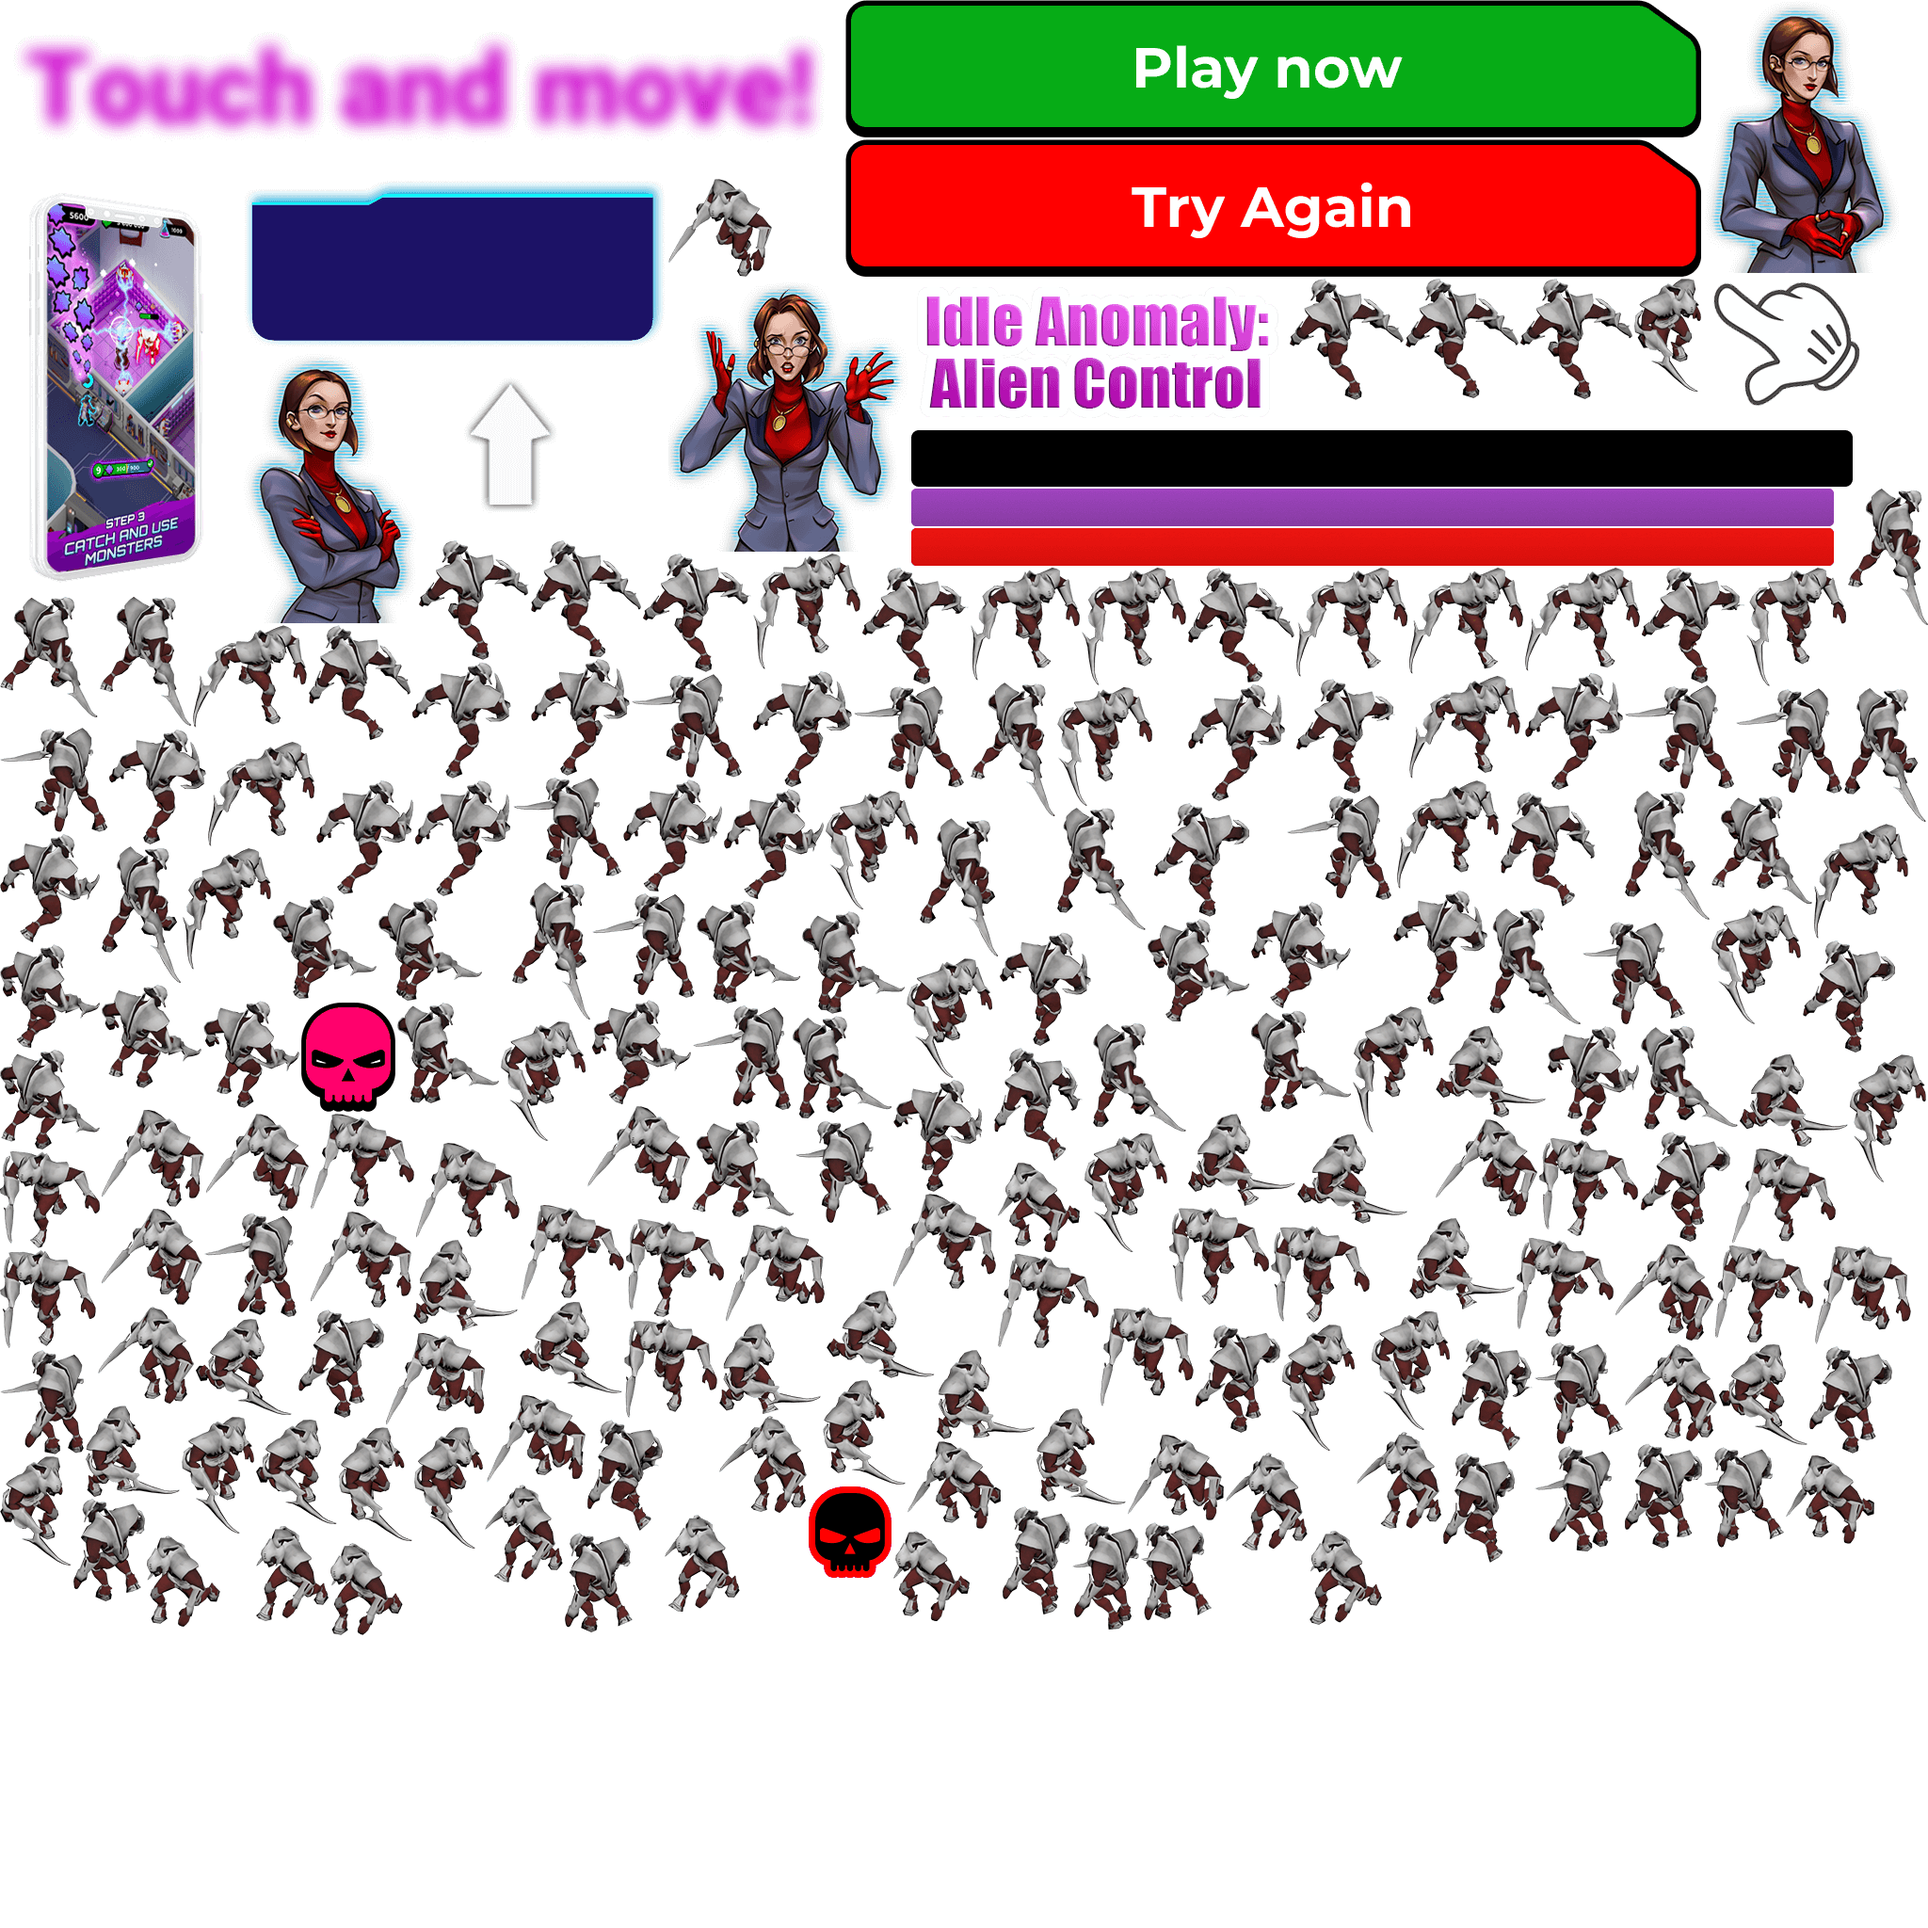
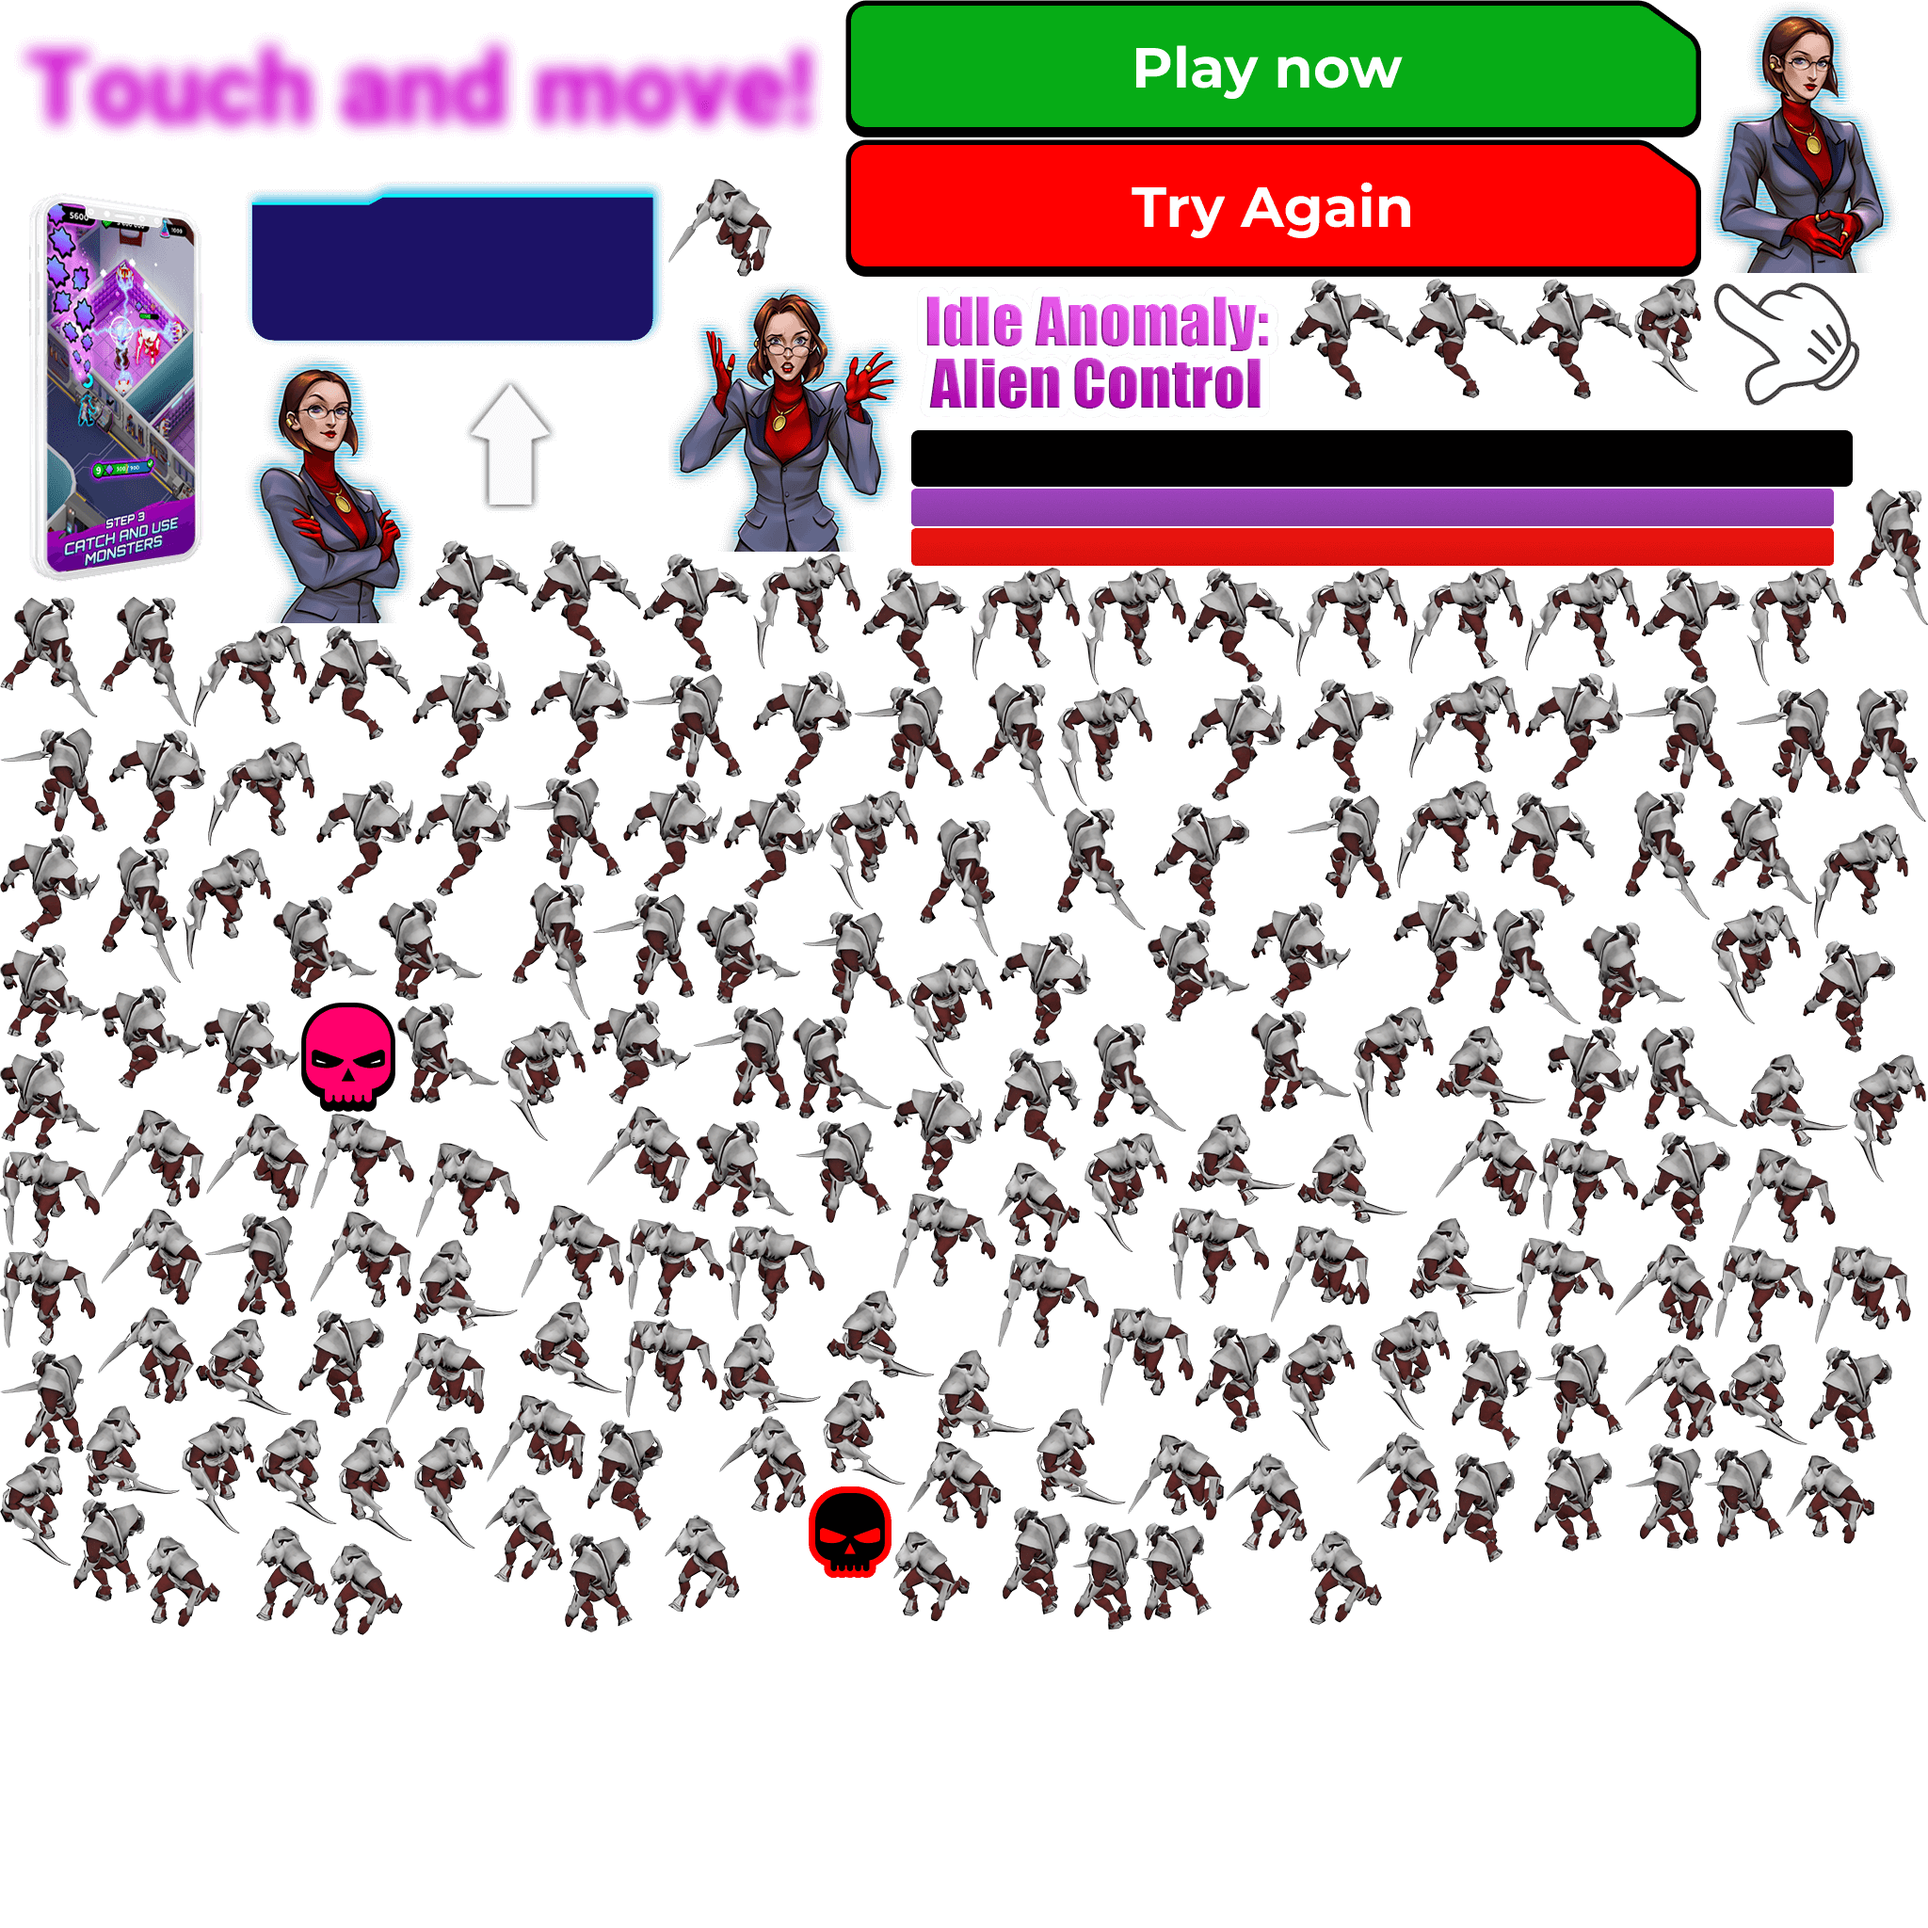
Add files via upload

diff --git a/index.html b/index.html
@@ -19,7 +19,7 @@
 var p; // shortcut to reference prototypes
 var lib={};var ss={};var img={};
 lib.ssMetadata = [
-		{name:"index_atlas_P_", frames: [[445,372,194,200],[968,519,980,40],[968,561,980,40],[968,457,1000,60],[258,190,450,180],[0,0,896,188],[898,0,909,146],[898,148,909,146],[1809,0,210,290],[258,372,185,290],[710,296,256,290],[320,1065,100,116],[859,1579,88,97],[1809,292,174,140],[1525,1189,108,103],[108,1284,107,102],[1716,1321,104,103],[104,1388,102,103],[1726,1428,98,103],[764,1504,93,103],[1441,1521,90,103],[1302,1543,87,104],[515,1577,83,104],[706,1609,80,103],[272,1621,77,101],[1391,1626,77,100],[351,1639,77,98],[156,1631,78,97],[949,1626,81,96],[1060,1235,87,95],[1897,1546,94,94],[964,1531,99,93],[1198,1524,102,91],[517,1482,105,93],[410,1416,105,98],[771,1301,105,103],[1928,1323,102,105],[1169,1388,99,106],[663,1401,99,105],[0,1328,102,104],[1350,1302,105,103],[1242,1283,106,103],[0,1223,106,103],[1635,1209,105,104],[665,1295,104,104],[1611,1315,103,105],[1822,1323,104,103],[1060,1332,107,100],[554,1280,109,101],[330,1183,110,102],[1840,1220,110,101],[442,1214,110,101],[949,1268,109,101],[330,1287,107,102],[108,1179,109,103],[710,190,110,104],[624,1175,109,103],[219,1183,109,103],[963,1018,91,127],[1818,962,95,126],[877,840,98,126],[1123,730,101,126],[1855,603,106,126],[1149,603,111,125],[800,588,114,123],[1031,603,116,120],[1377,603,118,116],[1497,603,121,113],[1620,603,122,110],[205,664,121,109],[1497,718,118,109],[221,788,113,111],[1484,829,108,115],[1927,875,100,122],[194,901,94,129],[1437,1069,86,134],[1965,1120,81,136],[1362,1407,77,134],[440,1516,73,129],[360,1516,78,121],[874,1466,88,111],[1101,1496,95,102],[91,1493,100,97],[995,1434,104,95],[764,1406,108,96],[439,1317,111,97],[1497,1294,112,97],[1262,1183,114,98],[1848,1120,115,98],[1525,1090,117,97],[1378,1205,117,95],[878,1371,115,93],[552,1383,109,97],[208,1401,102,102],[1826,1428,94,107],[272,1508,86,111],[0,1547,76,116],[1736,296,71,120],[193,1505,77,124],[1457,1393,83,126],[1152,1204,88,126],[532,1085,90,127],[317,1391,91,115],[1743,1202,95,117],[1915,999,98,119],[1226,853,101,121],[1377,721,105,122],[1744,603,109,123],[916,603,113,124],[683,588,115,126],[445,574,117,127],[1615,296,119,128],[1370,296,121,129],[1493,296,120,127],[564,574,117,124],[1262,603,113,122],[328,664,108,122],[1594,841,101,122],[1056,1113,94,120],[1542,1422,86,119],[624,1508,80,118],[1533,1543,76,117],[1065,1600,72,115],[1139,1617,71,114],[1630,1536,82,112],[0,1434,89,111],[217,1288,98,111],[736,1068,104,111],[629,949,109,111],[1367,845,111,111],[1844,731,113,112],[0,773,114,111],[1726,728,116,110],[671,716,117,110],[907,729,117,109],[545,826,115,109],[1681,979,109,109],[845,1190,102,109],[1630,1426,94,108],[1810,1537,85,107],[1212,1617,75,104],[600,1628,72,106],[78,1592,76,109],[1726,1533,82,112],[1922,1430,88,114],[1270,1407,90,115],[852,968,109,109],[422,1065,108,107],[1329,1073,106,108],[842,1079,105,109],[1743,1090,103,110],[1161,1087,99,115],[1582,965,97,123],[1123,858,94,130],[1726,840,90,137],[1959,731,87,142],[108,899,84,145],[977,869,83,147],[544,937,83,146],[1963,519,85,145],[1031,725,90,142],[106,634,97,137],[0,634,104,128],[1818,845,107,115],[735,1190,108,103],[0,1115,106,106],[108,1046,106,110],[216,1063,102,114],[1644,1090,97,117],[949,1147,94,119],[1062,990,97,121],[1480,946,100,121],[116,775,103,122],[438,703,105,124],[800,713,105,123],[564,700,105,124],[1620,715,104,124],[1262,727,103,124],[441,829,101,123],[336,829,103,121],[662,828,105,119],[769,838,106,117],[0,886,106,115],[1329,958,106,113],[629,1062,105,111],[0,1003,106,110],[1219,976,108,109],[290,952,110,109],[402,954,110,109],[740,957,110,109],[968,296,400,159],[0,190,256,442]]},
+		{name:"index_atlas_P_", frames: [[445,372,194,200],[968,519,980,40],[968,561,980,40],[968,457,1000,60],[258,190,450,180],[0,0,896,188],[898,0,909,146],[898,148,909,146],[1809,0,210,290],[258,372,185,290],[710,296,256,290],[320,1065,100,116],[859,1579,88,97],[1809,292,174,140],[1525,1189,108,103],[108,1284,107,102],[1716,1321,104,103],[104,1388,102,103],[1726,1428,98,103],[764,1504,93,103],[1441,1521,90,103],[1302,1543,87,104],[515,1577,83,104],[706,1609,80,103],[272,1621,77,101],[1391,1626,77,100],[351,1639,77,98],[156,1631,78,97],[949,1626,81,96],[1060,1235,87,95],[1897,1546,94,94],[964,1531,99,93],[1198,1524,102,91],[517,1482,105,93],[410,1416,105,98],[1350,1302,105,103],[1928,1323,102,105],[1169,1388,99,106],[663,1401,99,105],[0,1328,102,104],[771,1301,105,103],[0,1223,106,103],[1242,1283,106,103],[1635,1209,105,104],[665,1295,104,104],[1611,1315,103,105],[1822,1323,104,103],[1060,1332,107,100],[949,1268,109,101],[330,1183,110,102],[442,1214,110,101],[1840,1220,110,101],[554,1280,109,101],[330,1287,107,102],[108,1179,109,103],[710,190,110,104],[219,1183,109,103],[624,1175,109,103],[963,1018,91,127],[1818,962,95,126],[877,840,98,126],[1123,730,101,126],[1855,603,106,126],[1149,603,111,125],[800,588,114,123],[1031,603,116,120],[1377,603,118,116],[1497,603,121,113],[1620,603,122,110],[205,664,121,109],[1497,718,118,109],[221,788,113,111],[1484,829,108,115],[1927,875,100,122],[194,901,94,129],[1437,1069,86,134],[1965,1120,81,136],[1362,1407,77,134],[440,1516,73,129],[360,1516,78,121],[874,1466,88,111],[1101,1496,95,102],[91,1493,100,97],[995,1434,104,95],[764,1406,108,96],[439,1317,111,97],[1497,1294,112,97],[1262,1183,114,98],[1848,1120,115,98],[1525,1090,117,97],[1378,1205,117,95],[878,1371,115,93],[552,1383,109,97],[208,1401,102,102],[1826,1428,94,107],[272,1508,86,111],[0,1547,76,116],[1736,296,71,120],[193,1505,77,124],[1457,1393,83,126],[1152,1204,88,126],[532,1085,90,127],[317,1391,91,115],[1743,1202,95,117],[1915,999,98,119],[1226,853,101,121],[1377,721,105,122],[1744,603,109,123],[916,603,113,124],[683,588,115,126],[445,574,117,127],[1615,296,119,128],[1370,296,121,129],[1493,296,120,127],[564,574,117,124],[1262,603,113,122],[328,664,108,122],[1594,841,101,122],[1056,1113,94,120],[1542,1422,86,119],[624,1508,80,118],[1533,1543,76,117],[1065,1600,72,115],[1139,1617,71,114],[1726,1533,82,112],[0,1434,89,111],[217,1288,98,111],[736,1068,104,111],[629,949,109,111],[1367,845,111,111],[1844,731,113,112],[0,773,114,111],[1726,728,116,110],[671,716,117,110],[907,729,117,109],[545,826,115,109],[852,968,109,109],[845,1190,102,109],[1630,1426,94,108],[1810,1537,85,107],[1212,1617,75,104],[600,1628,72,106],[78,1592,76,109],[1630,1536,82,112],[1922,1430,88,114],[1270,1407,90,115],[1681,979,109,109],[422,1065,108,107],[1329,1073,106,108],[842,1079,105,109],[1743,1090,103,110],[1161,1087,99,115],[1582,965,97,123],[1123,858,94,130],[1726,840,90,137],[1959,731,87,142],[108,899,84,145],[977,869,83,147],[544,937,83,146],[1963,519,85,145],[1031,725,90,142],[106,634,97,137],[0,634,104,128],[1818,845,107,115],[735,1190,108,103],[0,1115,106,106],[0,1003,106,110],[216,1063,102,114],[1644,1090,97,117],[949,1147,94,119],[1062,990,97,121],[1480,946,100,121],[116,775,103,122],[564,700,105,124],[800,713,105,123],[438,703,105,124],[1620,715,104,124],[1262,727,103,124],[441,829,101,123],[336,829,103,121],[662,828,105,119],[769,838,106,117],[0,886,106,115],[1329,958,106,113],[629,1062,105,111],[108,1046,106,110],[1219,976,108,109],[740,957,110,109],[290,952,110,109],[402,954,110,109],[968,296,400,159],[0,190,256,442]]},
 		{name:"index_atlas_NP_", frames: [[0,0,2048,2048],[1202,2050,1000,1000],[0,2050,1200,1200]]}
 ];
 // symbols:
@@ -2277,12 +2277,12 @@ p.nominalBounds = new cjs.Rectangle(-67.1,-67.1,134.2,134.2);
 	this.initialize(mode,startPosition,loop,{});
 	// Layer_1
 	this.shape = new cjs.Shape();
[1 lines of base64/hex data omitted]
-	this.shape.setTransform(275,275);
[1 lines of base64/hex data omitted]
+	this.shape.setTransform(274.975,274.975);
 	this.shape._off = true;
 	this.timeline.addTween(cjs.Tween.get(this.shape).wait(3).to({_off:false},0).wait(1));
 }).prototype = p = new cjs.MovieClip();
-p.nominalBounds = new cjs.Rectangle(0,0,550,550);
+p.nominalBounds = new cjs.Rectangle(0,0,490.2,490.2);
 (lib.clickared = function(mode,startPosition,loop) {
 	this.initialize(mode,startPosition,loop,{});
 	// Layer_1
@@ -2478,7 +2478,7 @@ p.nominalBounds = new cjs.Rectangle(-313.1,-110.3,626.4000000000001,220.6);
 	this.instance_3.setTransform(345.85,-240.15);
 	this.timeline.addTween(cjs.Tween.get(this.instance_3).to({x:-469.3,y:295.2},49,cjs.Ease.none).to({_off:true},1).wait(50));
 }).prototype = p = new cjs.MovieClip();
-p.nominalBounds = new cjs.Rectangle(-922.6,-725.8,1653.9,1406.4);
+p.nominalBounds = new cjs.Rectangle(-830.1,-633.3,1468.8000000000002,1221.4);
 (lib.monster_other_direction = function(mode,startPosition,loop) {
 	this.initialize(mode,startPosition,loop,{});
 	// hitArea
@@ -2505,7 +2505,7 @@ p.nominalBounds = new cjs.Rectangle(-922.6,-725.8,1653.9,1406.4);
 	this.instance_3.setTransform(548.45,-108.35);
 	this.timeline.addTween(cjs.Tween.get(this.instance_3).to({x:-289.2,y:-698.45},49,cjs.Ease.none).to({_off:true},1).wait(50));
 }).prototype = p = new cjs.MovieClip();
-p.nominalBounds = new cjs.Rectangle(-742.5,-1164.3,1676.4,1421.6);
+p.nominalBounds = new cjs.Rectangle(-650,-1071.8,1491.3,1236.5);
 (lib.monster = function(mode,startPosition,loop) {
 	this.initialize(mode,startPosition,loop,{});
 	// hitArea
@@ -2532,7 +2532,7 @@ p.nominalBounds = new cjs.Rectangle(-742.5,-1164.3,1676.4,1421.6);
 	this.instance_3.setTransform(345.85,-240.15);
 	this.timeline.addTween(cjs.Tween.get(this.instance_3).to({x:-469.3,y:295.2},49,cjs.Ease.none).to({_off:true},1).wait(50));
 }).prototype = p = new cjs.MovieClip();
-p.nominalBounds = new cjs.Rectangle(-922.6,-725.8,1653.9,1406.4);
+p.nominalBounds = new cjs.Rectangle(-830.1,-633.3,1468.8000000000002,1221.4);
 (lib.handihand = function(mode,startPosition,loop) {
 	this.initialize(mode,startPosition,loop,{});
 	// Layer_1
@@ -3166,8 +3166,8 @@ lib.properties = {
 	color: "#FFFFFF",
 	opacity: 1.00,
 	manifest: [
-		{src:"index_atlas_P_.png?1686898668567", id:"index_atlas_P_"},
-		{src:"index_atlas_NP_.jpg?1686898668567", id:"index_atlas_NP_"}
+		{src:"index_atlas_P_.png?1686905995418", id:"index_atlas_P_"},
+		{src:"index_atlas_NP_.jpg?1686905995418", id:"index_atlas_NP_"}
 	],
 	preloads: []
 };
